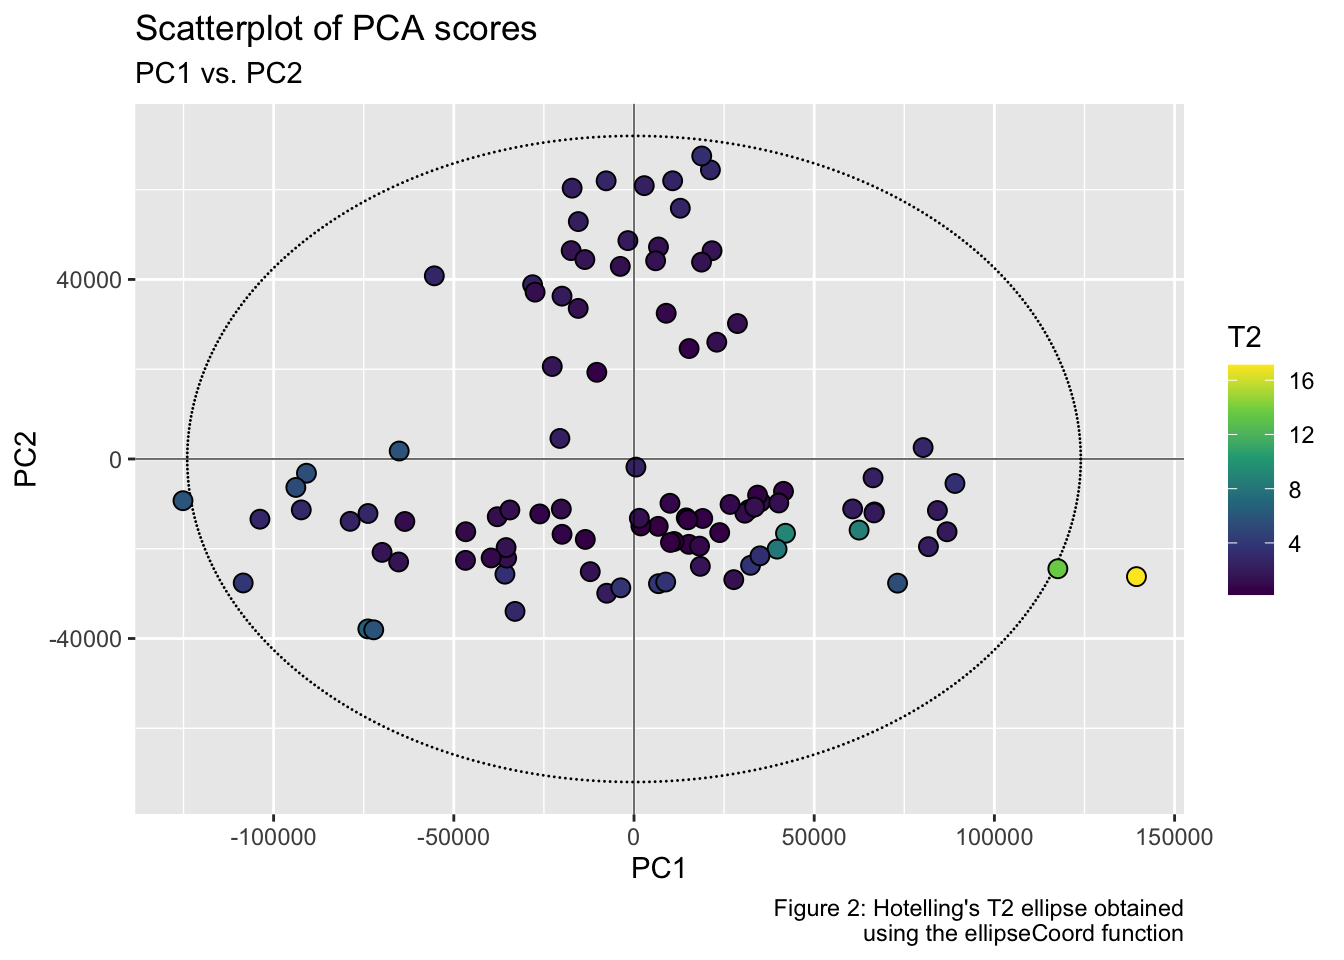
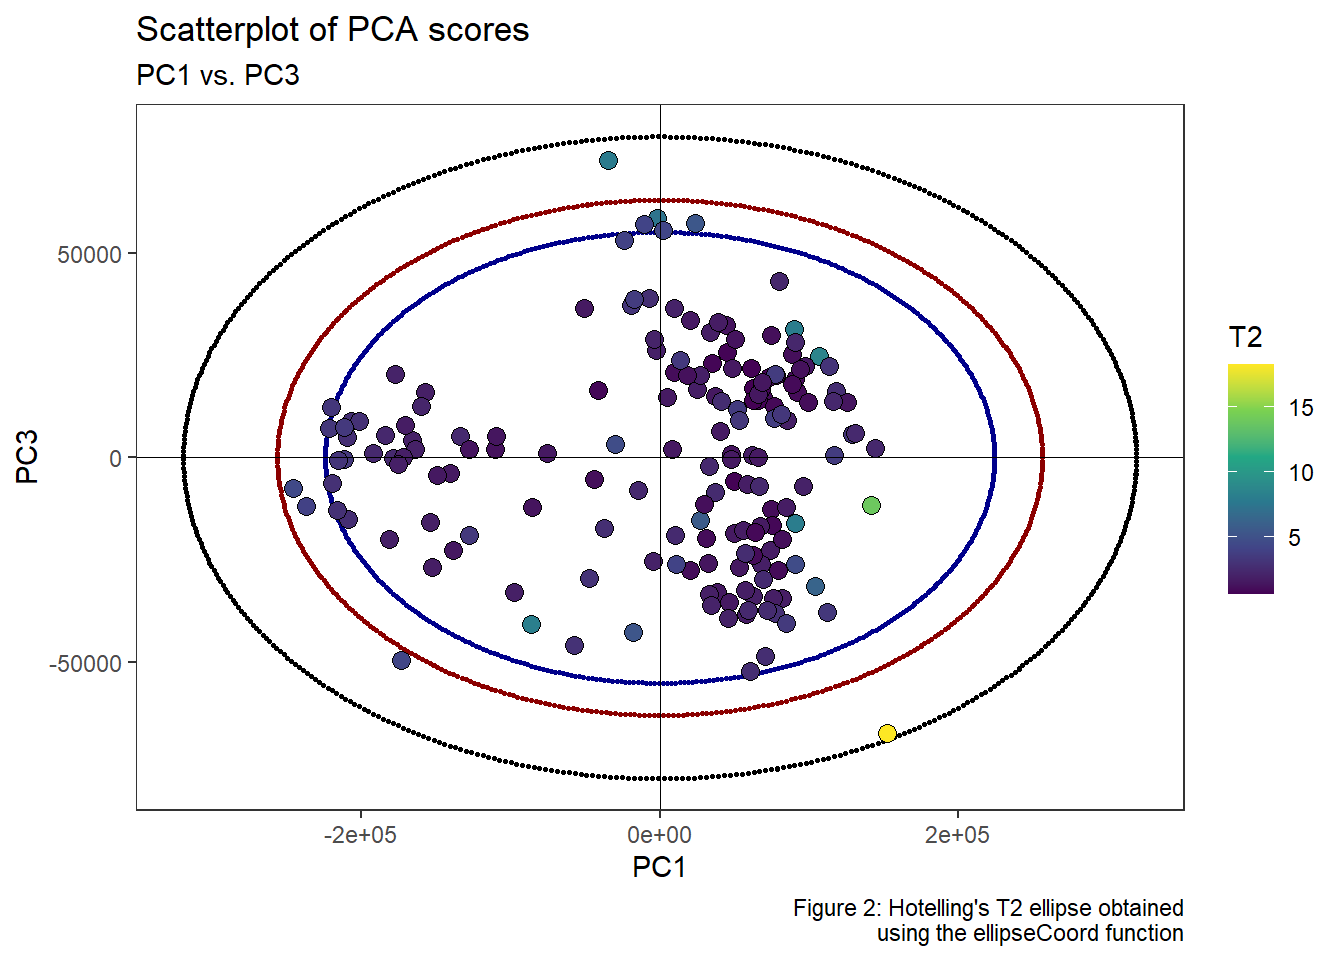
Exemple in Fig.2 is changed to PC1-PC3 subspace.

diff --git a/README.md b/README.md
@@ -149,23 +149,25 @@ Another way to add Hotelling ellipse on the scatterplot of the scores is
 to use the function `ellipseCoord()`. This function provides the *x* and
 *y* coordinates of the confidence ellipse at user-defined confidence
 interval. The confidence interval `conf.limit` is set at 95% by default.
+Here, PC1 is on the *x*-axis (**pcx = 1**) and, the third principal
+component, PC3, is on the *y*-axis (**pcy = 3**).
 
 ``` r
-coord_2PCs_99 <- ellipseCoord(data = pca_scores, pcx = 1, pcy = 2, conf.limit = 0.99, pts = 500)
-coord_2PCs_95 <- ellipseCoord(data = pca_scores, pcx = 1, pcy = 2, conf.limit = 0.95, pts = 500)
-coord_2PCs_90 <- ellipseCoord(data = pca_scores, pcx = 1, pcy = 2, conf.limit = 0.90, pts = 500)
+coord_2PCs_99 <- ellipseCoord(data = pca_scores, pcx = 1, pcy = 3, conf.limit = 0.99, pts = 500)
+coord_2PCs_95 <- ellipseCoord(data = pca_scores, pcx = 1, pcy = 3, conf.limit = 0.95, pts = 500)
+coord_2PCs_90 <- ellipseCoord(data = pca_scores, pcx = 1, pcy = 3, conf.limit = 0.90, pts = 500)
 ```
 
 ``` r
 str(coord_2PCs_99)
 #> tibble [500 x 2] (S3: tbl_df/tbl/data.frame)
 #>  $ x: num [1:500] 319536 319510 319434 319308 319131 ...
-#>  $ y: num [1:500] 7.20e-12 1.16e+03 2.31e+03 3.47e+03 4.62e+03 ...
+#>  $ y: num [1:500] -1.73e-12 9.88e+02 1.98e+03 2.96e+03 3.95e+03 ...
 ```
 
 **Step 6.** Plot PC1 *vs.* PC2 scatterplot, with the two corresponding
 Hotelling ellipse. Points inside the two elliptical regions are within
-the 99% and 95% confidence limits for T<sup>2</sup>.
+the 99% and 95% confidence intervals for T<sup>2</sup>.
 
 ``` r
 pca_scores %>%
@@ -182,18 +184,19 @@ pca_scores %>%
 
 <img src="man/figures/README-unnamed-chunk-14-1.png" width="90%" height="90%" />
 
-Or at the confidence limits set at 99, 95 and 90%.
+Or in the PC1-PC3 subspace at the confidence intervals set at 99, 95 and
+90%.
 
 ``` r
 ggplot() +
   geom_ellipse(data = coord_2PCs_99, aes(x0 = x, y0 = y, a = 1, b = 1, angle = 0), size = .9, color = "black", linetype = "dashed") +
   geom_ellipse(data = coord_2PCs_95, aes(x0 = x, y0 = y, a = 1, b = 1, angle = 0), size = .9, color = "darkred", linetype = "dotted") +
   geom_ellipse(data = coord_2PCs_90, aes(x0 = x, y0 = y, a = 1, b = 1, angle = 0), size = .9, color = "darkblue", linetype = "dotted") +
-  geom_point(data = pca_scores, aes(x = Dim.1, y = Dim.2, fill = T2), shape = 21, size = 3, color = "black") +
+  geom_point(data = pca_scores, aes(x = Dim.1, y = Dim.3, fill = T2), shape = 21, size = 3, color = "black") +
   scale_fill_viridis_c(option = "viridis") +
   geom_hline(yintercept = 0, linetype = "solid", color = "black", size = .2) +
   geom_vline(xintercept = 0, linetype = "solid", color = "black", size = .2) +
-  labs(title = "Scatterplot of PCA scores", subtitle = "PC1 vs. PC2", x = "PC1", y = "PC2", fill = "T2", caption = "Figure 2: Hotelling's T2 ellipse obtained\n using the ellipseCoord function") +
+  labs(title = "Scatterplot of PCA scores", subtitle = "PC1 vs. PC3", x = "PC1", y = "PC3", fill = "T2", caption = "Figure 2: Hotelling's T2 ellipse obtained\n using the ellipseCoord function") +
   theme_bw() +
   theme(panel.grid = element_blank())
 ```
